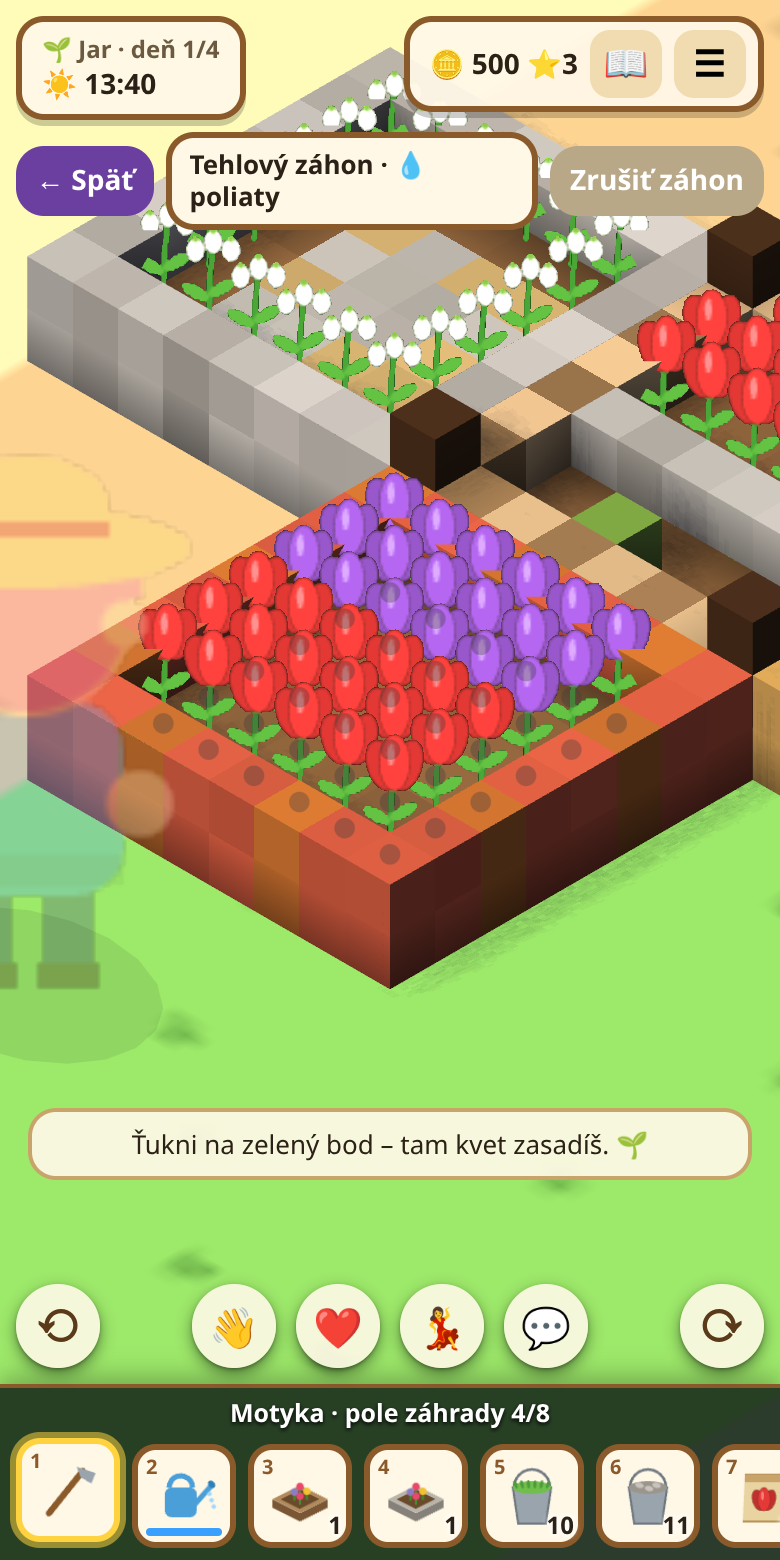
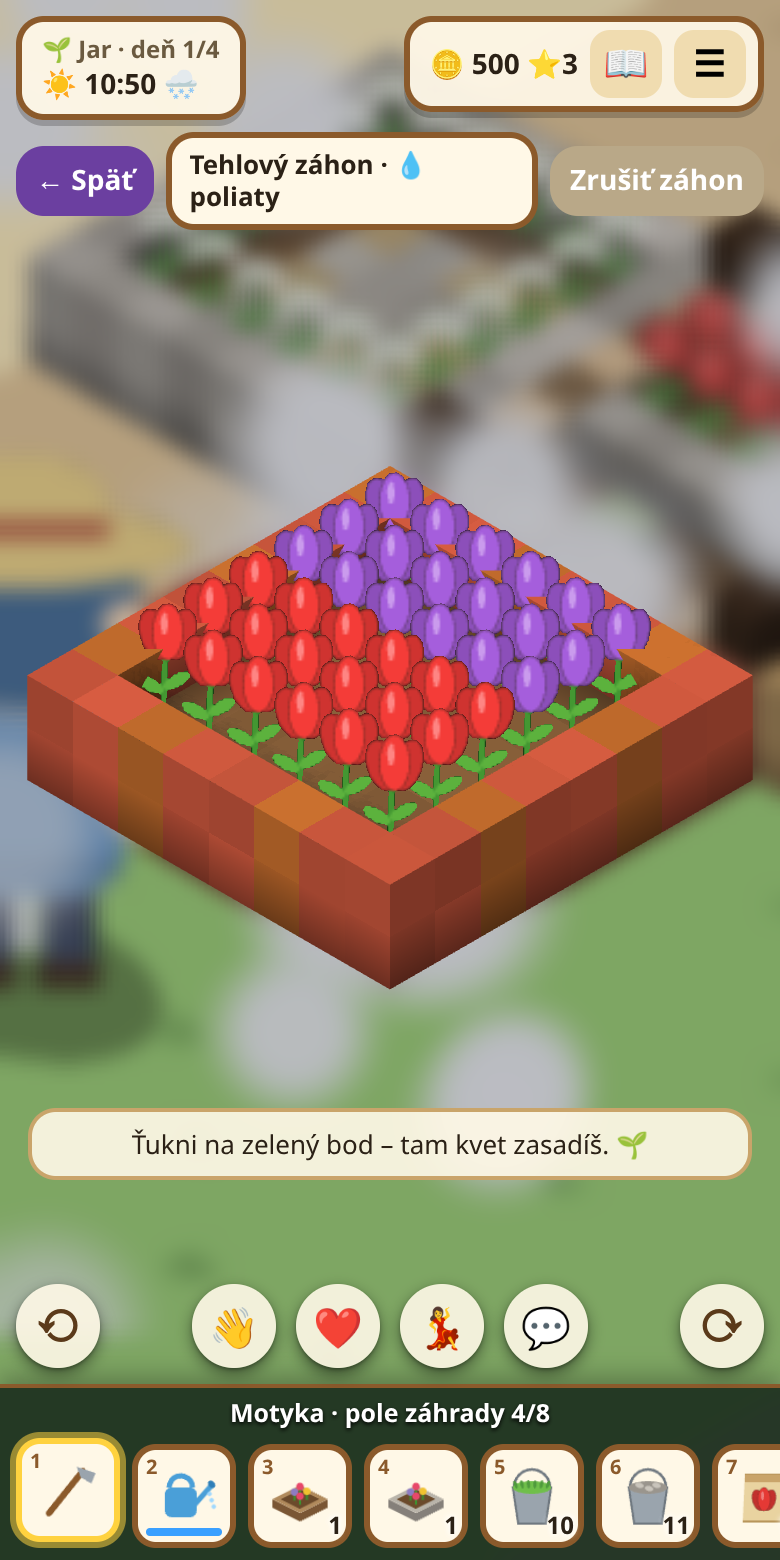
Záhon: priblížený záhon pláva pred rozmazaným a stmaveným svetom (#179)

diff --git a/src/client/render3d.ts b/src/client/render3d.ts
@@ -1768,6 +1768,53 @@ void main() {
     renderer.autoClear = true;
   }
 
+  // Priblížený záhon (#179): záhon „pláva“ pred rozmazaným svetom. Svet sa nakreslí do textúry v štvrtinovom rozlíšení,
+  // tá sa roztiahne a rozmaže cez celú obrazovku (a trochu stmaví), potom sa vymaže hĺbka a nakreslí sa len záhon a jeho
+  // kvety (vrstva ZOOM_LAYER).
+  const ZOOM_LAYER = 6;
+  let zoomRT: THREE.WebGLRenderTarget | null = null;
+  const blurMat = new THREE.ShaderMaterial({
+    uniforms: { map: { value: null }, texel: { value: new THREE.Vector2(1, 1) }, amount: { value: 0 } },
+    vertexShader: 'varying vec2 vUv; void main() { vUv = uv; gl_Position = vec4(position.xy, 0.0, 1.0); }',
+    fragmentShader: `uniform sampler2D map; uniform vec2 texel; uniform float amount; varying vec2 vUv;
+      void main() {
+        vec4 c = vec4(0.0); float w = 0.0;
+        for (int x = -3; x <= 3; x++) for (int y = -3; y <= 3; y++) {
+          float k = exp(-float(x * x + y * y) / 6.0);
+          c += texture2D(map, vUv + vec2(float(x), float(y)) * texel * amount * 1.6) * k; w += k;
+        }
+        c /= w;
+        float g = dot(c.rgb, vec3(0.299, 0.587, 0.114));
+        gl_FragColor = vec4(mix(c.rgb, mix(vec3(g), c.rgb, 0.7) * 0.82, amount), 1.0);
+      }`,
+    depthTest: false, depthWrite: false
+  });
+  const blurScene = new THREE.Scene(), blurCam = new THREE.OrthographicCamera(-1, 1, 1, -1, 0, 1);
+  blurScene.add(new THREE.Mesh(new THREE.PlaneGeometry(2, 2), blurMat));
+  // Záhon a jeho kvety na vrstve ZOOM_LAYER (len ten priblížený)
+  function markZoomLayer(id: number | null, x: number, y: number): void {
+    for (const m of fineMeshes) { if (id !== null && m.fineType === 'zahon' && m.tile?.x === x && m.tile.y === y) m.layers.enable(ZOOM_LAYER); else m.layers.disable(ZOOM_LAYER); }
+    for (const [k, sp] of plantSprites) { if (id !== null && k >= ZAHON_SPRITE + id * 64 && k < ZAHON_SPRITE + (id + 1) * 64) sp.layers.enable(ZOOM_LAYER); else sp.layers.disable(ZOOM_LAYER); }
+  }
+  function renderZoomed(ze: number): void {
+    const size = renderer.getDrawingBufferSize(new THREE.Vector2()), w = Math.max(1, Math.floor(size.x / 4)), h = Math.max(1, Math.floor(size.y / 4));
+    if (!zoomRT || zoomRT.width !== w || zoomRT.height !== h) { zoomRT?.dispose(); zoomRT = new THREE.WebGLRenderTarget(w, h, { depthBuffer: true }); }
+    renderer.setRenderTarget(zoomRT);
+    renderer.render(scene, camera);
+    renderer.setRenderTarget(null);
+    blurMat.uniforms['map']!.value = zoomRT.texture; // eslint-disable-line @typescript-eslint/no-non-null-assertion -- uniformy sú definované vyššie
+    (blurMat.uniforms['texel']!.value as THREE.Vector2).set(1 / w, 1 / h); // eslint-disable-line @typescript-eslint/no-non-null-assertion -- uniformy sú definované vyššie
+    blurMat.uniforms['amount']!.value = ze; // eslint-disable-line @typescript-eslint/no-non-null-assertion -- uniformy sú definované vyššie
+    renderer.render(blurScene, blurCam);
+    const mask = camera.layers.mask;
+    renderer.autoClear = false;
+    renderer.clearDepth();
+    camera.layers.set(ZOOM_LAYER);
+    renderer.render(scene, camera);
+    camera.layers.mask = mask;
+    renderer.autoClear = true;
+  }
+
   let viewDiag = D.VIEW_DIAG, zoomEase = 0;
   function resize(): void {
     const r = api.glCanvas.getBoundingClientRect();
@@ -1952,7 +1999,6 @@ void main() {
       // po vlastnom prechode do inej plochy hráči zo starej plochy hneď zmiznú (je to za čiernou clonou)
       if (!o.alive && (o.vis <= 0 || o.seenArea !== S.area || id === 'babka' || id === 'master' || id === 'me')) { removeChar(id, o); continue; }
       if (o.vis < 1 || !o.alive) setCharVis(o, Math.max(0, Math.min(1, o.vis + (o.alive ? dt : -dt) / CHAR_FADE)));
-      if (id === 'me' && o.alive && zoomEase > 0) setCharVis(o, 1 - 0.75 * zoomEase); // priblížený záhon (#179): vlastná postavička nezakrýva body
       const lo = { seen: 1 };
       o.sp.material.color.setRGB(...lightAt(o.sp.position.x, o.sp.position.y, o.sp.position.z, lights, lights.length, lo));
       // v tme: kto je za dohľadom (a nesvieti mu lampáš), toho nevidno; cez stromy presvitá len vlastná postavička
@@ -1976,8 +2022,13 @@ void main() {
     if (statsOn) tp = performance.now();
     renderReflection();
     if (statsOn) { const q = performance.now(); passMs.refl = q - tp; tp = q; }
-    renderer.render(scene, camera);
-    if (fading) drawOutlines();
+    const zf = zoomTarget(), zo = zf && S.zoom ? S.zoom.id : null;
+    markZoomLayer(zo, zf ? zf.x - 0.5 : 0, zf ? zf.y - 0.5 : 0);
+    if (zo !== null && zoomEase > 0.02) renderZoomed(zoomEase * zoomEase * (3 - 2 * zoomEase)); // priblížený záhon (#179)
+    else {
+      renderer.render(scene, camera);
+      if (fading) drawOutlines();
+    }
     if (statsOn) passMs.scene = performance.now() - tp;
     drawOverlay(t);
   }

diff --git a/src/client/zahon.ts b/src/client/zahon.ts
@@ -170,6 +170,7 @@ export function createZahon(dp: ZahonDeps): ClientZahon {
     const sel = S.sel, out: ZoomMark[] = [];
     const ok = (sx: number, sy: number): boolean | null => {
       const here = ZR.spotAt(z, sx, sy);
+      if (here?.p && sel !== 'hoe' && sel !== '') return null; // obsadený bod kvetom netreba značiť – kvet tam vidno
       if (sel.startsWith('seed_') || D.isWild(sel)) return !ZR.plantError(z, sx, sy, sel.startsWith('seed_') ? D.speciesOfItem(sel) : null);
       if (sel.startsWith('cov_')) return !ZR.coverError(z, sx, sy);
       if (sel === 'hoe') return here?.p ? true : null;
